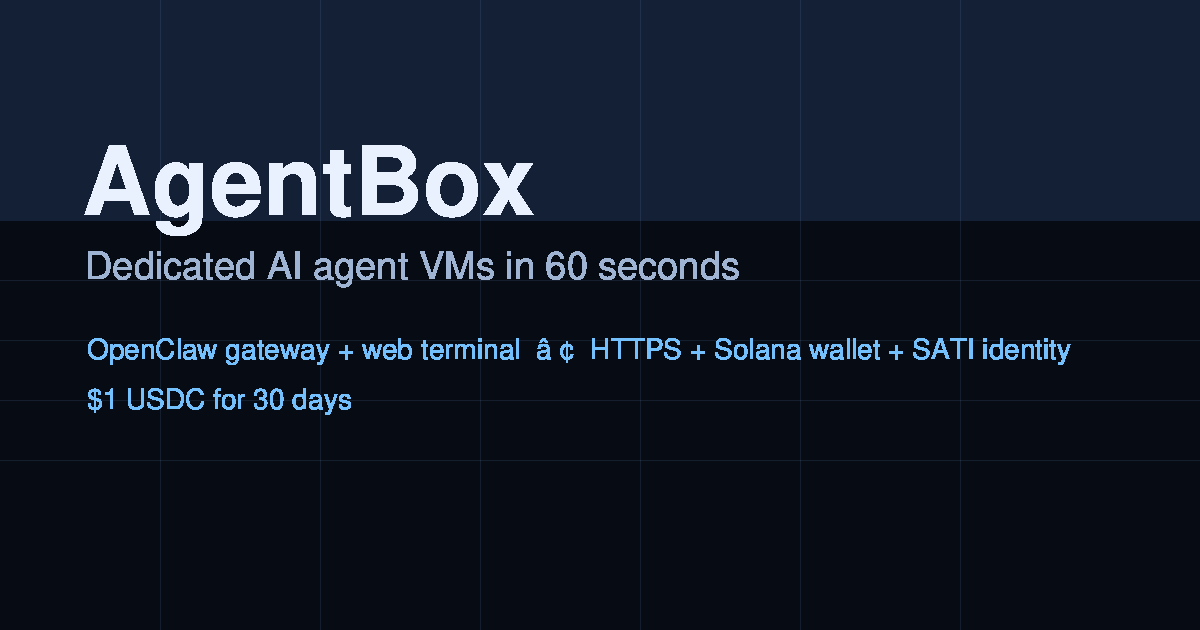
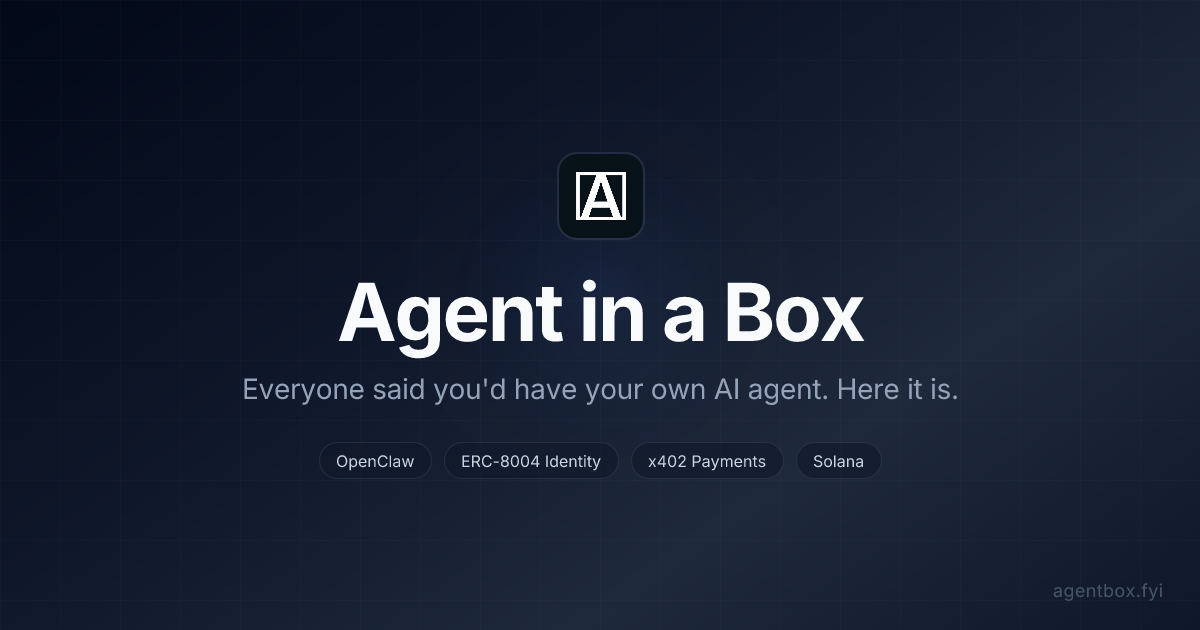
feat(frontend): add OG metadata, Twitter card, and branding assets
- Replace summary card with summary_large_image for large Twitter preview
- Update titles to "Agent in a Box", descriptions to product value prop
- Fix og:image/twitter:image to absolute URLs (required by Twitter)
- Add og:image:width/height/type, og:site_name, twitter:creator, twitter:image:alt
- Generate new og.png with logo, tagline, and crypto-native feature pills
- Replace wave emoji favicon with AgentBox logo (favicon.png + apple-touch-icon.png)
- Remove unused water-wave-cascade.svg

diff --git a/packages/frontend/index.html b/packages/frontend/index.html
@@ -3,38 +3,44 @@
   <head>
     <meta charset="UTF-8" />
     <meta name="viewport" content="width=device-width, initial-scale=1.0" />
-    <link rel="icon" type="image/svg+xml" href="/water-wave-cascade.svg" />
-    <link rel="shortcut icon" href="/water-wave-cascade.svg" />
+    <link rel="icon" type="image/png" href="/favicon.png" />
+    <link rel="apple-touch-icon" href="/apple-touch-icon.png" />
 
-    <title>AgentBox Dashboard</title>
+    <title>Agent in a Box - AgentBox</title>
     <meta
       name="description"
-      content="Provision and manage OpenClaw-powered agent instances on Hetzner with AgentBox."
+      content="Your own AI agent. 5 USDC on Solana. No API keys, no signup. OpenClaw gateway, ERC-8004 identity, funded wallet, ready in minutes."
     />
     <meta
       name="keywords"
-      content="agentbox, openclaw, hetzner, dashboard, automation, agents"
+      content="agentbox, openclaw, ai agent, solana, x402, erc-8004, usdc, autonomous agent"
     />
     <meta name="referrer" content="strict-origin-when-cross-origin" />
     <meta name="theme-color" content="#020817" />
 
     <meta property="og:type" content="website" />
     <meta property="og:url" content="https://agentbox.fyi/" />
-    <meta property="og:title" content="AgentBox Dashboard" />
+    <meta property="og:site_name" content="AgentBox" />
+    <meta property="og:title" content="Agent in a Box" />
     <meta
       property="og:description"
-      content="Provision and manage OpenClaw-powered agent instances on Hetzner."
+      content="Everyone said you'd have your own AI agent. Here it is. 5 USDC on Solana. No API keys, no signup."
     />
-    <meta property="og:image" content="/og.png" />
+    <meta property="og:image" content="https://agentbox.fyi/og.png" />
+    <meta property="og:image:width" content="1200" />
+    <meta property="og:image:height" content="630" />
+    <meta property="og:image:type" content="image/png" />
 
-    <meta name="twitter:card" content="summary" />
+    <meta name="twitter:card" content="summary_large_image" />
     <meta name="twitter:site" content="@agentbox_fyi" />
-    <meta name="twitter:title" content="AgentBox Dashboard" />
+    <meta name="twitter:creator" content="@opwizardx" />
+    <meta name="twitter:title" content="Agent in a Box" />
     <meta
       name="twitter:description"
-      content="Provision and manage OpenClaw-powered agent instances on Hetzner."
+      content="Everyone said you'd have your own AI agent. Here it is. 5 USDC on Solana. No API keys, no signup."
     />
-    <meta name="twitter:image" content="/og.png" />
+    <meta name="twitter:image" content="https://agentbox.fyi/og.png" />
+    <meta name="twitter:image:alt" content="Agent in a Box - Your own AI agent. 5 USDC on Solana." />
   </head>
   <body>
     <div id="app"></div>
